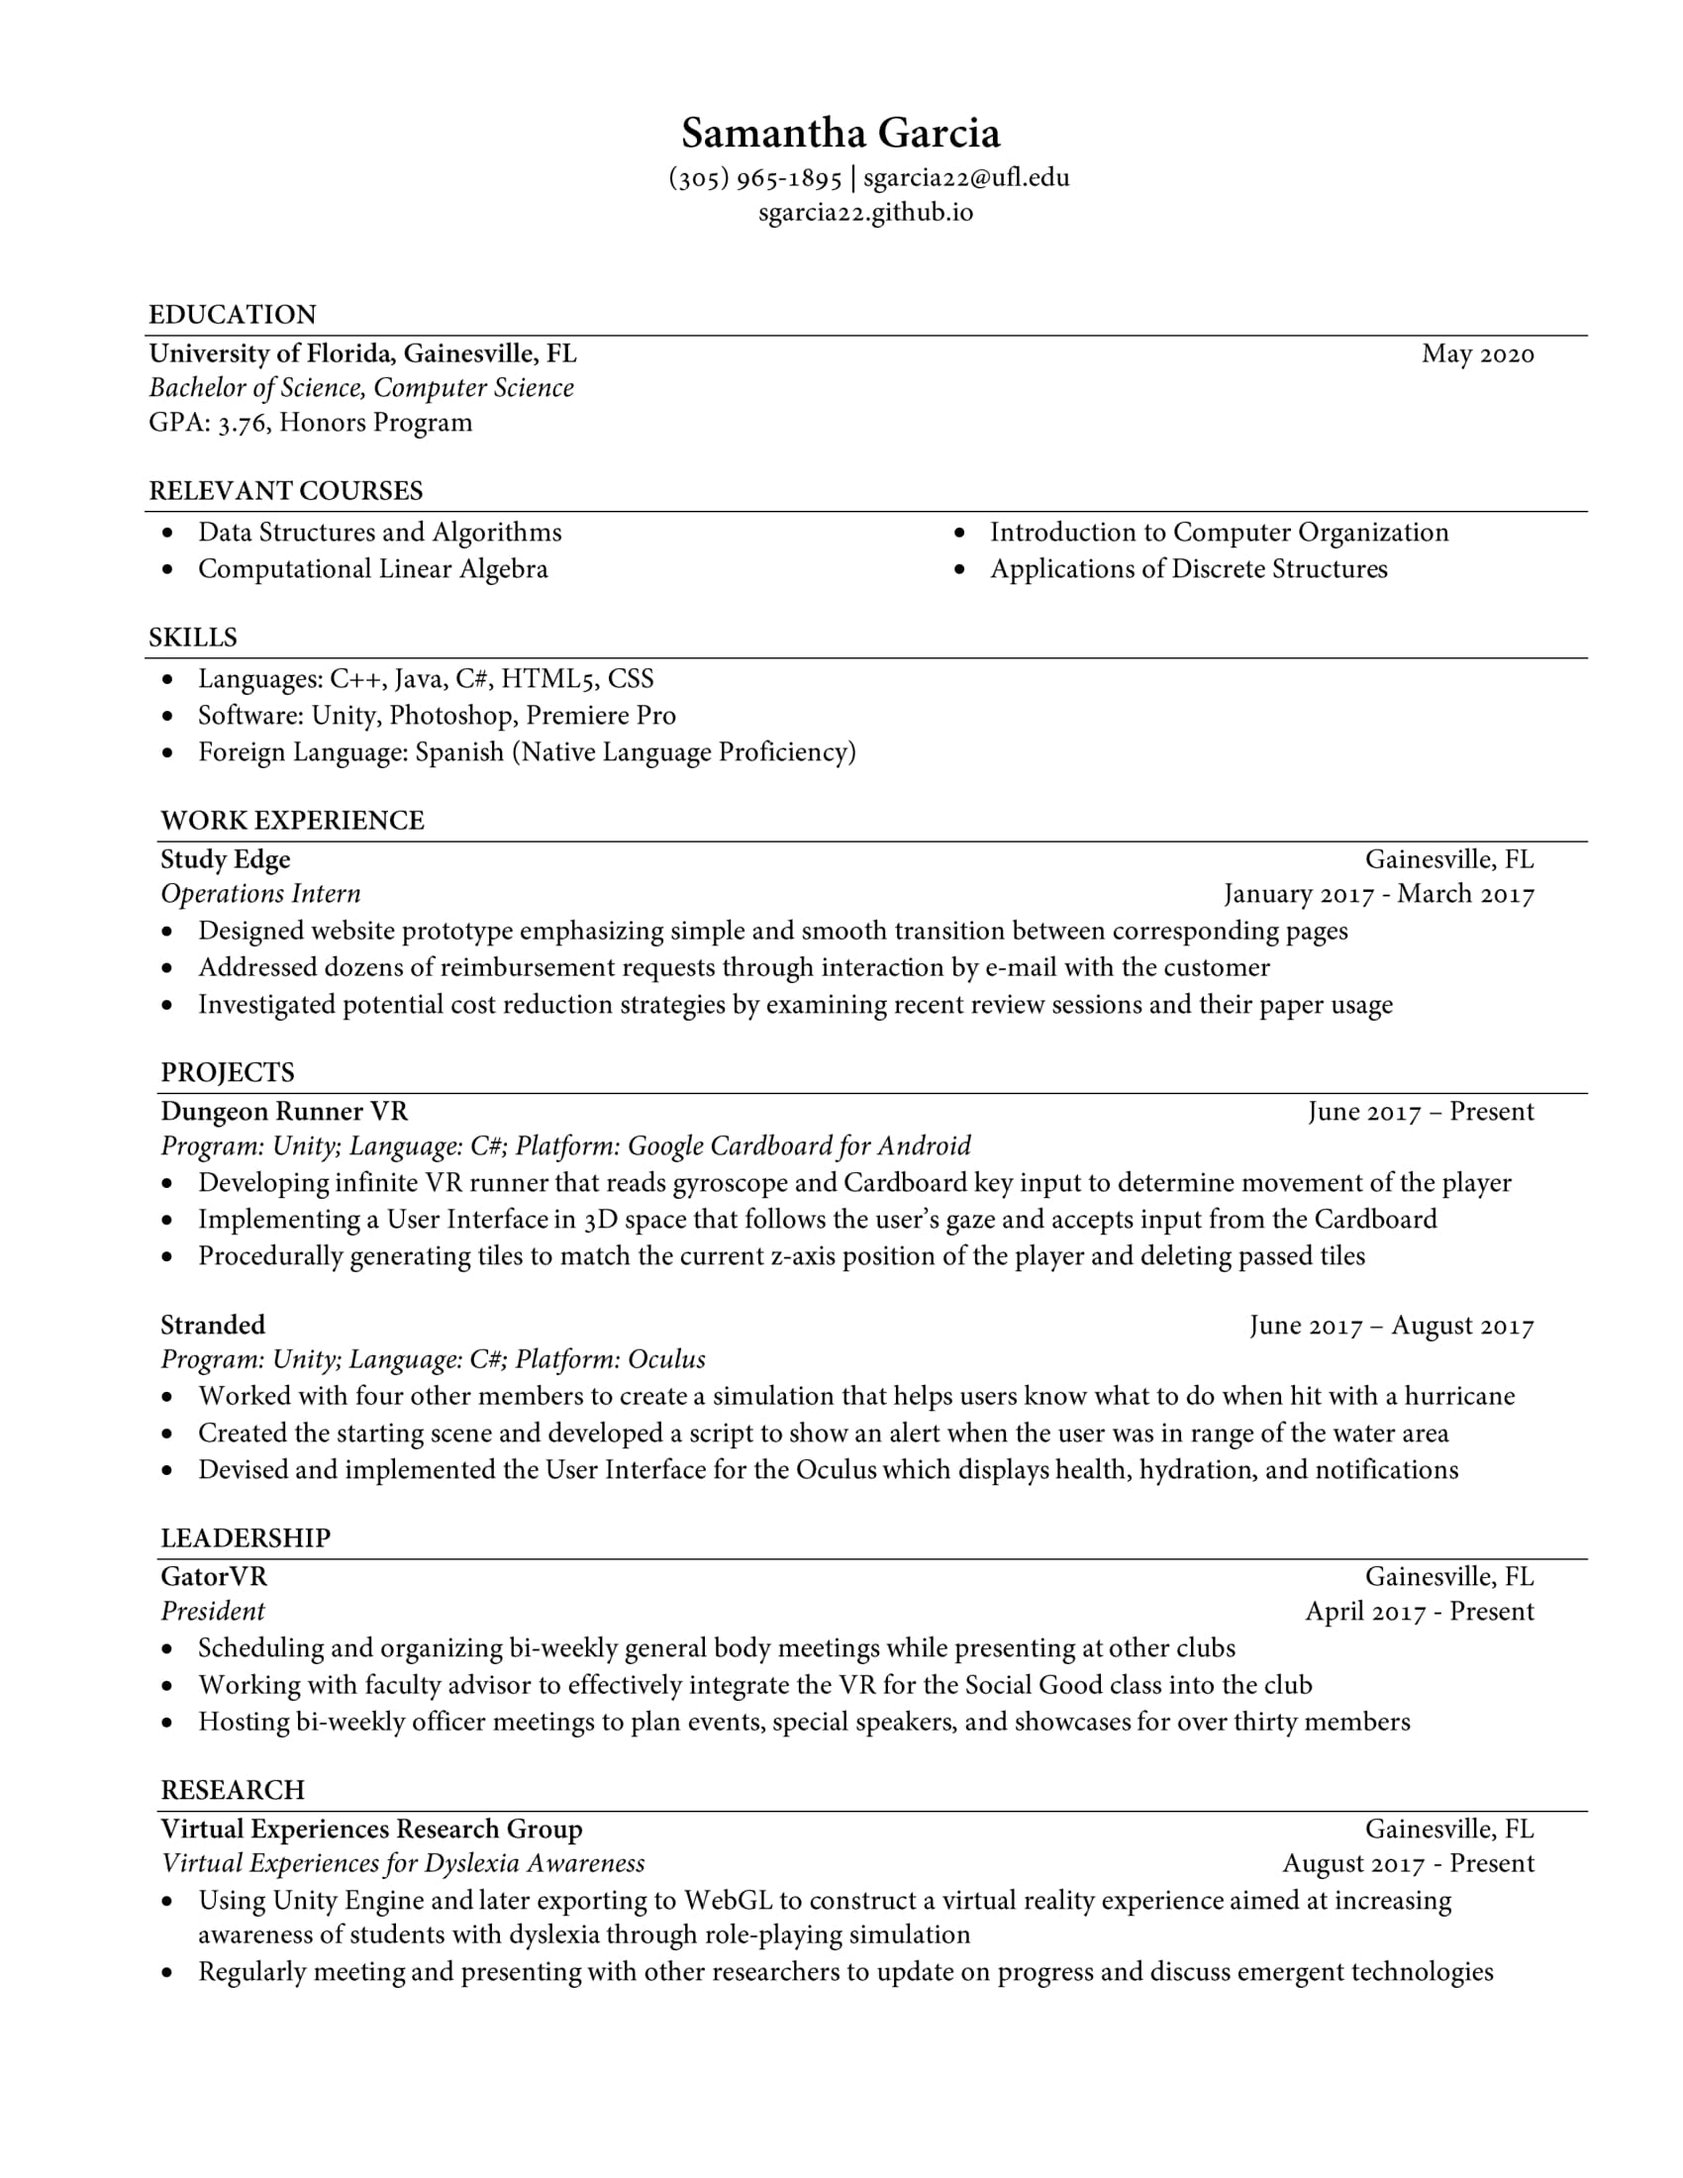
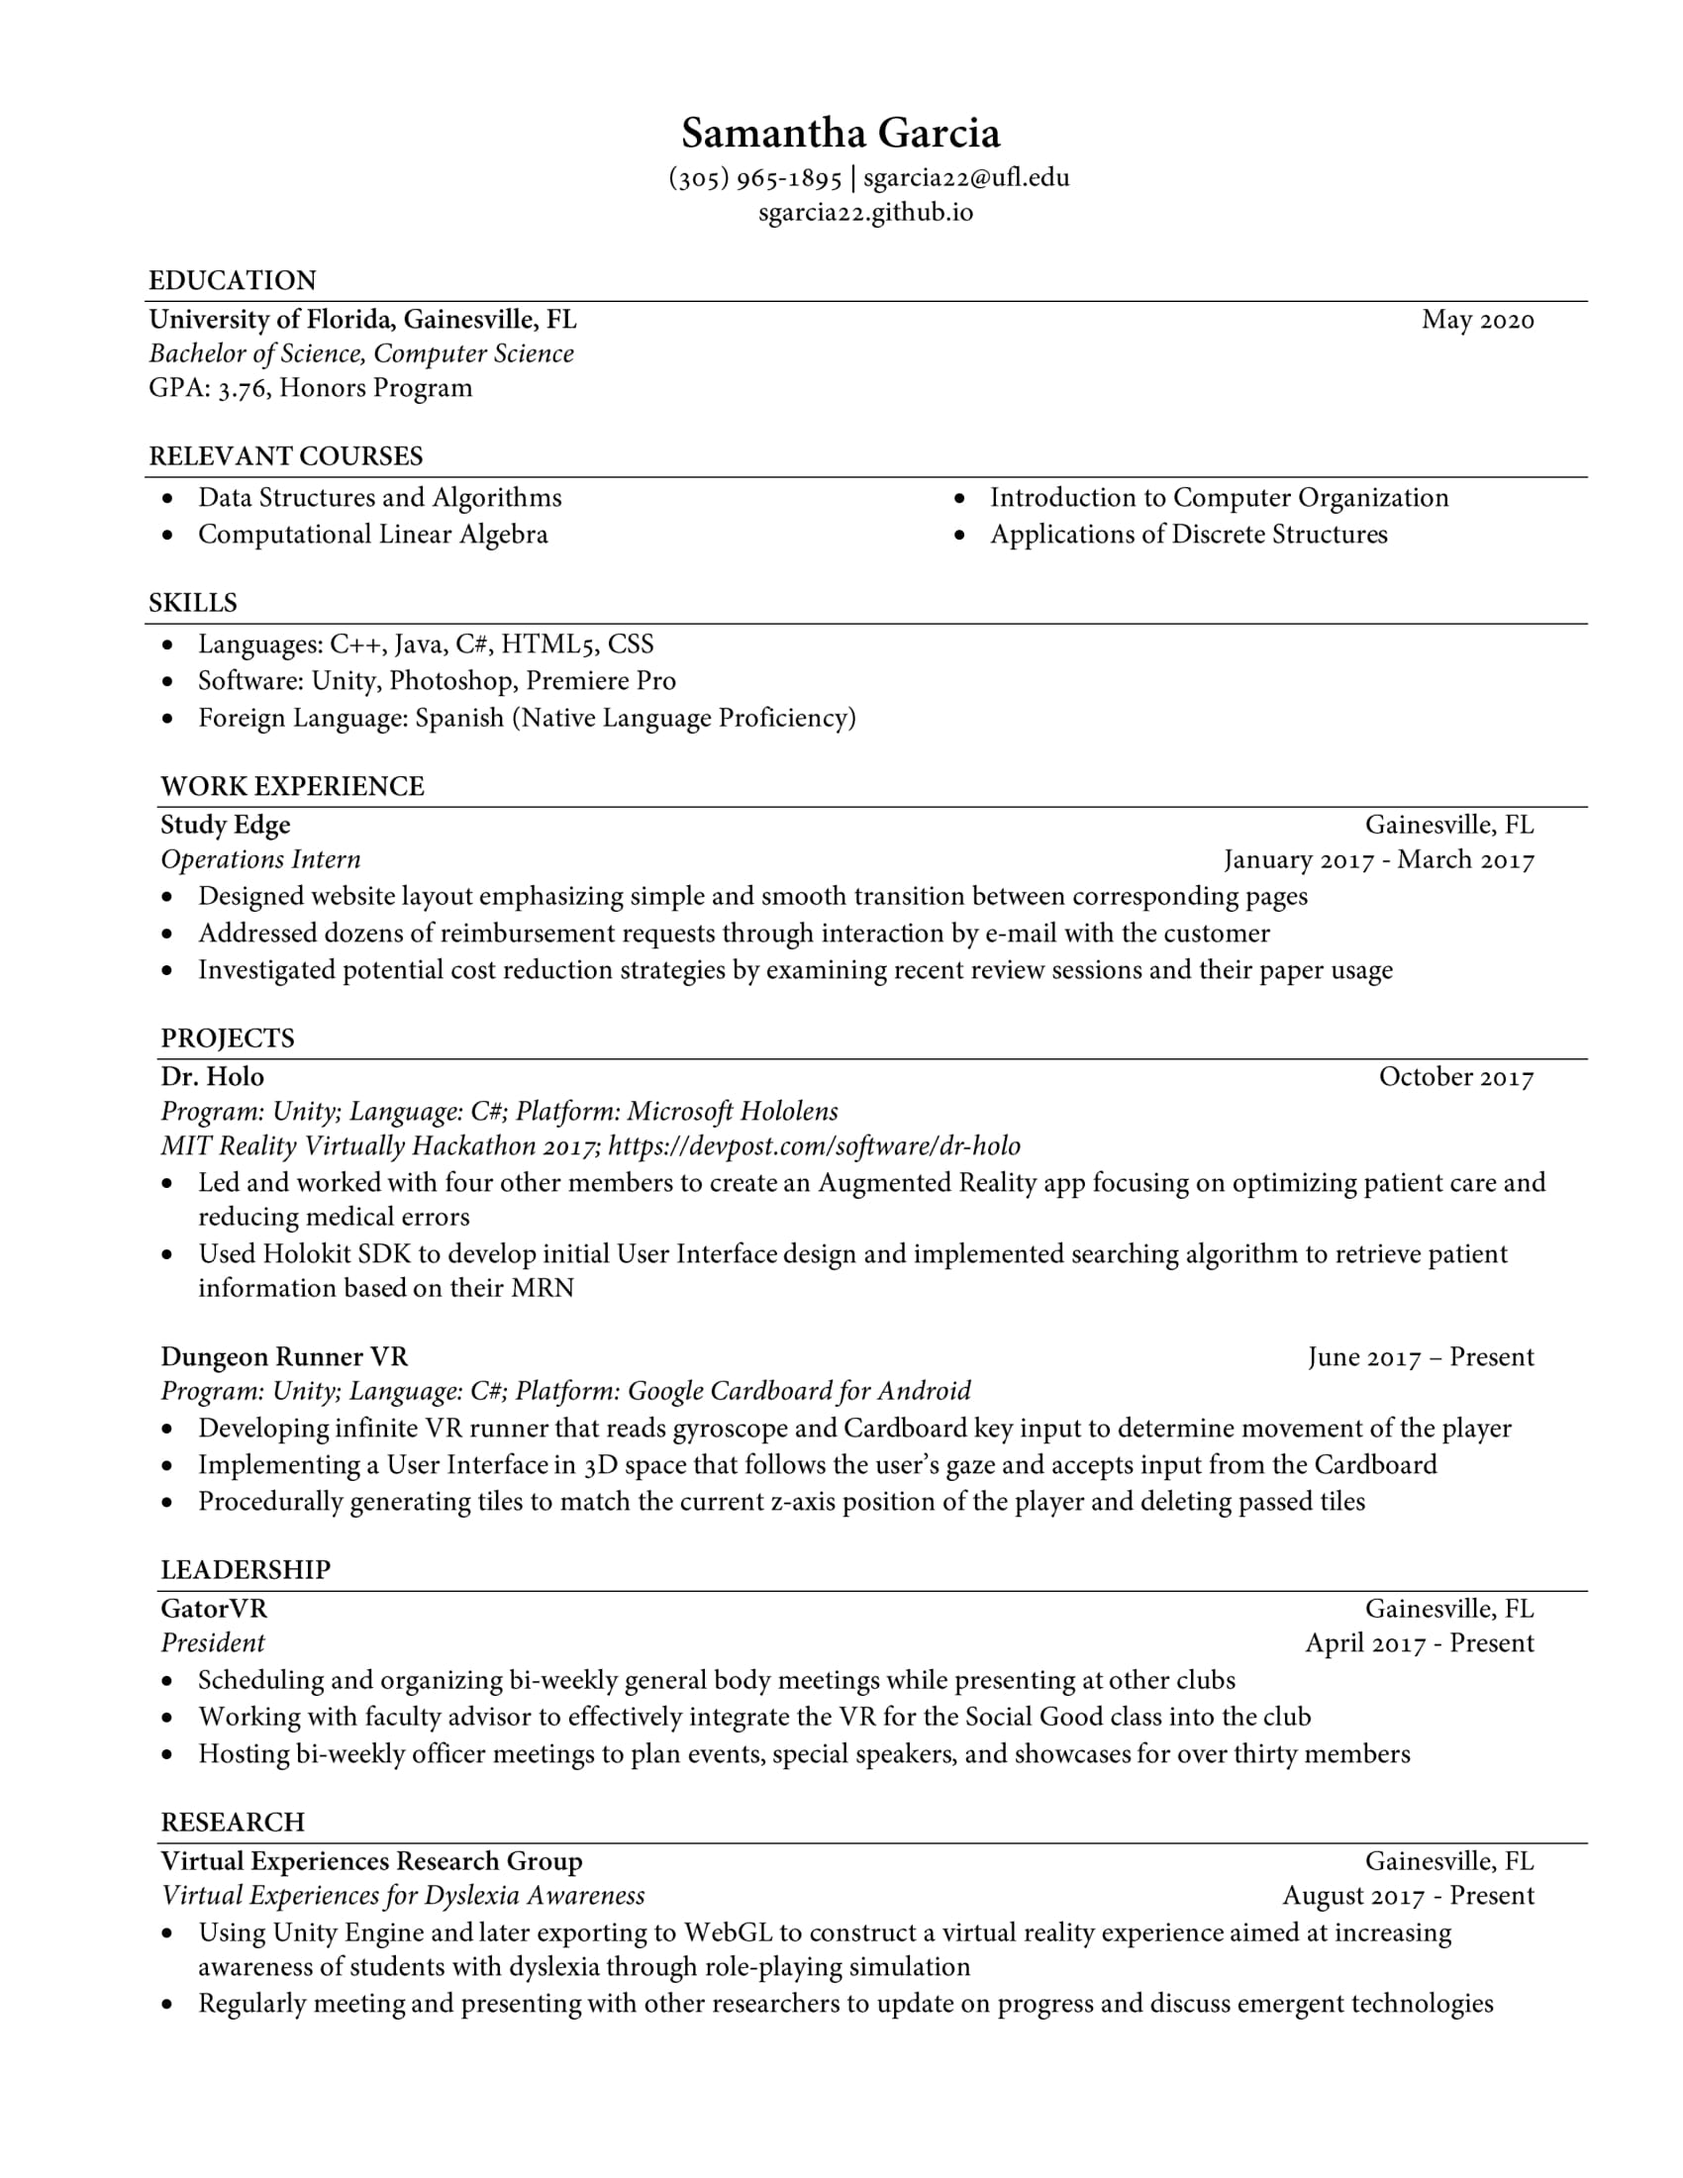
Updated
-Resume
-Dungeon Runner Video
-Digital Art

Changed region(s): [[0.0935, 0.1236, 0.9353, 0.9273], [0.5612, 0.2164, 0.8729, 0.2782], [0.8418, 0.1236, 0.9041, 0.1855]]

diff --git a/holo.html b/holo.html
@@ -20,7 +20,7 @@
 		<iframe src="https://player.vimeo.com/video/238241900" width="640" height="331" frameborder="0" webkitallowfullscreen mozallowfullscreen allowfullscreen></iframe>
 	</div>
 	<div class="description" style="margin: 0 auto; width:50%;">
-		<h3>Hololens AR App developed in Unity. The application focuses on optimizing patient care and reduce medical errors. The app's purpose is to provide Dr.’s and rotating medical staff “hands free” access to interact with patient information on inter-hospital secure medical database with potential to view Medical Imaging (MRI, Xray, Ultrasound) data in 3D to assist with treatment plan. I worked on initial UI design and implemented searching algorithm to retrieve patient information based on their Medical Record Number (MRN). </h3>
+		<h3>Hololens AR App developed in Unity. The application focuses on optimizing patient care and reduce medical errors. The app's purpose is to provide Dr.’s and rotating medical staff “hands free” access to interact with patient information on inter-hospital secure medical database with potential to view Medical Imaging (MRI, Xray, Ultrasound) data in 3D to assist with treatment plan. I worked on initial UI design and implemented searching algorithm to retrieve patient information based on their Medical Record Number (MRN). I led four other members. </h3>
 	</div>
 	<div align="center">
 		<a href="https://devpost.com/software/dr-holo" target="_blank">

diff --git a/digital_art.html b/digital_art.html
@@ -20,7 +20,30 @@
 		<img src="Digital_Art/Paul_Icon.jpg" alt="Soundcloud Icon Request" style="width: 600px;">
 	</div>
 	<div class="art" align="center">
-		<img src="Digital_Art/Week1_Scene1_composite.jpg" alt="Forest Scene" style="width:1000px;">
+		<img src="Digital_Art/Week4_Scene1_Composite.png" alt="DIG3717 Forest Scene" style="width:1000px;">
 	</div>
+	<div class="art" align="center">
+		<img src="Digital_Art/Week4_Scene2_Composite.png" alt="DIG3717 Sea Scene" style="width:1000px;">
+	</div>
+	<div class="art" align="center">
+		<img src="Digital_Art/Week4_Scene3_Composite.png" alt="DIG3717 Sky Scene" style="width:1000px;">
+	</div>
+	<div class="art" align="center">
+		<img src="Digital_Art/PlayerCharacter_Composite.png" alt="DIG3717 Player" style="width:1000px;">
+	</div>
+	<div class="art" align="center">
+		<img src="Digital_Art/NonPlayerCharacter01_Composite.png" alt="DIG3717 Non-Player Char 1" style="width:1000px;">
+	</div>
+	<div class="art" align="center">
+		<img src="Digital_Art/NonPlayerCharacter02_Composite.png" alt="DIG3717 Non-Player Char 2" style="width:1000px;">
+	</div>
+	<div class="art" align="center">
+		<img src="Digital_Art/NonPlayerCharacter03_Composite.png" alt="DIG3717 Non-Player Char 3" style="width:1000px;">
+	</div>
+	<div class="art" align="center">
+		<img src="Digital_Art/InGameItems_Composite.png" alt="DIG3717 In-Game Collectibles" style="width:1000px;">
+	</div>
+	
+	
 </body> 
 </html>

diff --git a/dungeonrunnervr.html b/dungeonrunnervr.html
@@ -17,8 +17,7 @@
 	
 	<h2>Dungeon Runner VR</h2>
 	<div align="center">
-		<img src="Images/dungeonrunnervr.JPG" alt="DungeonRunnerVR" style="width: 50%;">
-		<h5 style="margin-bottom: 0px; margin-top: 10px;">Dungeon Runner VR Prototype</h5>
+		<iframe src="https://player.vimeo.com/video/238243543" width="640" height="360" frameborder="0" webkitallowfullscreen mozallowfullscreen allowfullscreen></iframe>
 	</div>
 	<div class="description" style="margin: 0 auto; width:50%;">
 		<h3>Unity 3D Project currently being developed for the Google Cardboard and set to be released on Android. The game is an infinite runner in which the player can rotate their heads to move sideways, jump by looking upwards and pressing the trigger button, and slide by looking downwards and pressing the trigger button.</h3>
